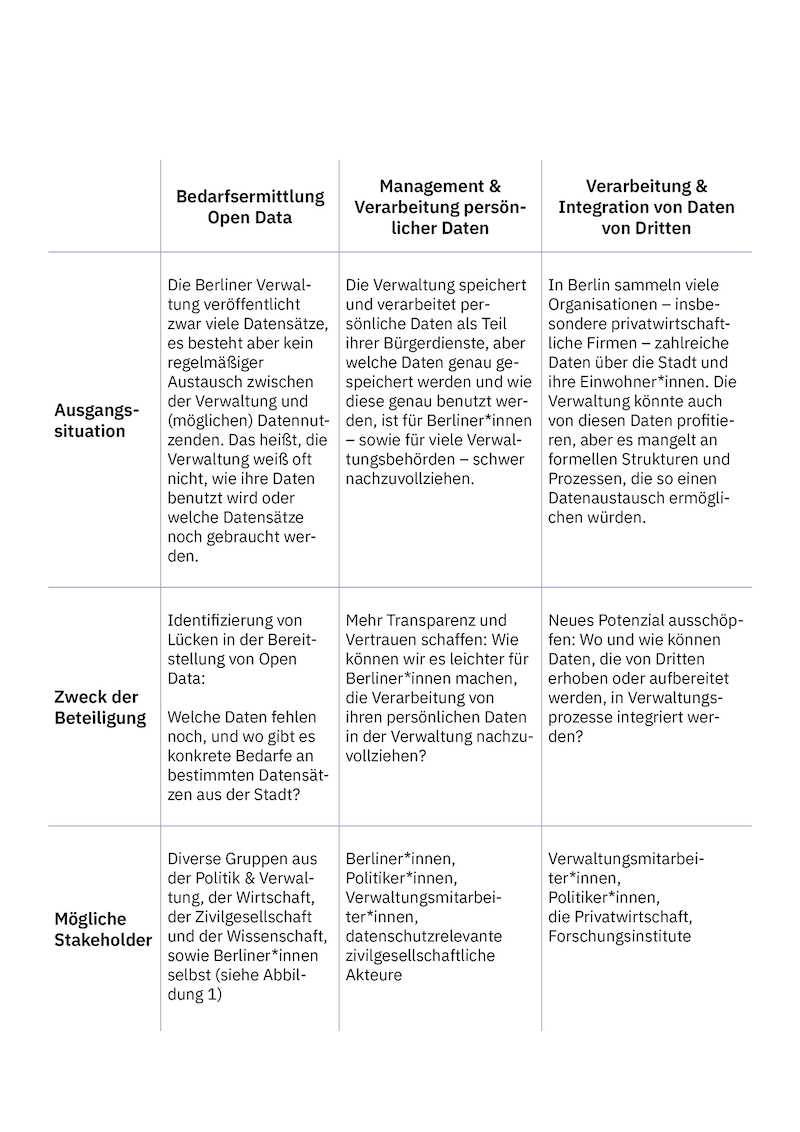
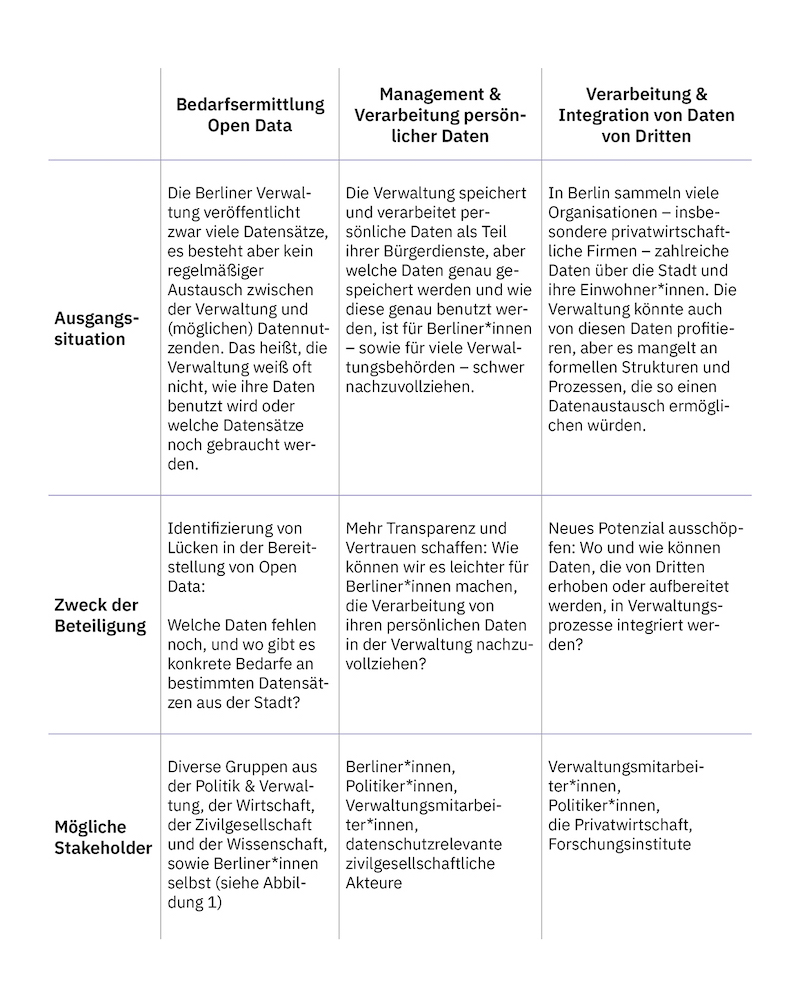
adjust sizes again and add captions

Changed region(s): [[0.0625, 0.0936, 0.9375, 0.9356], [0.6875, 0.499, 0.9375, 0.6549], [0.4062, 0.499, 0.6562, 0.6861]]

diff --git a/source/projects/Partizipationskonzept/de/index.md b/source/projects/Partizipationskonzept/de/index.md
@@ -34,7 +34,7 @@ Die Beteiligungsformate im Rahmen der Data Governance Strategie sollten sich an 
 werden, deren Perspektive sonst schnell ungehört bleibt. Des weiteren sollten auch interessierte Stakeholder aus Wirtschaft, Wissenschaft und der organisierten Zivilgesellschaft gehört und eingebunden werden. Eine gesonderte Rolle nehmen Mitarbeiter\*innen der Verwaltung ein: sie müssen die Data Governance umsetzen. Abbildung 1 bietet eine Übersicht der Hauptakteur\*innen der jeweiligen Stakeholder-Gruppen an, die eine kritische Rolle im Rahmen einer Data Governance-Strategie spielen können. Anschließend werden verschieden Handlungsfelder aufgeführt, in deren Kontext bestimmte Stakeholdergruppen spezifisch angesprochen werden können.
 
 ![Berliner Stakeholder für Beteiligungsverfahren im Bereich der Data Governance](/projects/Partizipationskonzept/images/stakeholder.png)
-
+*Berliner Stakeholder für Beteiligungsverfahren im Bereich der Data Governance*
 
 
 ## Woran? Themen für die Bürger\*innen- und Stakeholderbeteiligung
@@ -42,6 +42,7 @@ werden, deren Perspektive sonst schnell ungehört bleibt. Des weiteren sollten a
 Wir haben drei Handlungsfelder identifiziert, die beispielhaft das Potenzial eines Beteiligungsverfahrens im Rahmen einer Data Governance-Strategie aufzeigen. Diese sind in der Tabelle unten in Detail ausformuliert.
 
 ![Handlungsfelder](/projects/Partizipationskonzept/images/tabelle.jpg)
+*Handlungsfelder*
 
 ## Wie? Mögliche Partizipationsformate
 
